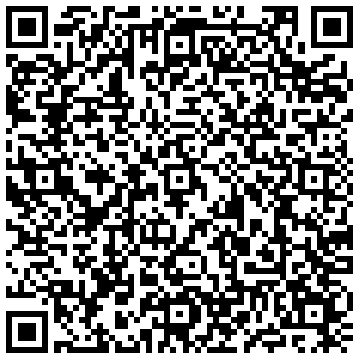
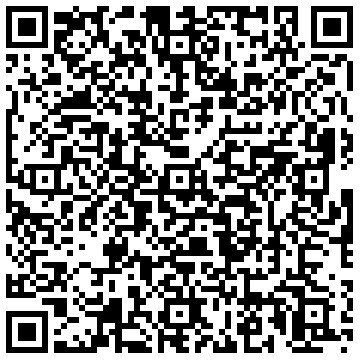
更新文件路径

diff --git a/apps/Pneumonia2020/README.md b/apps/Pneumonia2020/README.md
@@ -7,7 +7,7 @@
 
 ### 安装方式
 
-1. 点击链接安装：[jsbox://import?name=&url=Pneumonia2020https%3a%2f%2fcdn.jsdelivr.net%2fgh%2fzhuangzhihao%2fjsbox%40master%2ffiles%2fPneumonia2020.box&icon=https%3a%2f%2fcdn.jsdelivr.net%2fgh%2fzhuangzhihao%2fjsbox%40master%2fapps%2fPneumonia2020%2fassets%2ficon.png](jsbox://import?name=&url=Pneumonia2020https%3a%2f%2fcdn.jsdelivr.net%2fgh%2fzhuangzhihao%2fjsbox%40master%2ffiles%2fPneumonia2020.box&icon=https%3a%2f%2fcdn.jsdelivr.net%2fgh%2fzhuangzhihao%2fjsbox%40master%2fapps%2fPneumonia2020%2fassets%2ficon.png)
+1. 点击链接安装：[jsbox://import?url=https%3a%2f%2fcdn.jsdelivr.net%2fgh%2fzhuangzhihao%2fjsbox%40master%2fdownload%2fPneumonia2020.box](jsbox://import?name=Pneumonia2020&url=https%3a%2f%2fcdn.jsdelivr.net%2fgh%2fzhuangzhihao%2fjsbox%40master%2fdownload%2fPneumonia2020.box&icon=https%3a%2f%2fcdn.jsdelivr.net%2fgh%2fzhuangzhihao%2fjsbox%40master%2fapps%2fPneumonia2020%2fassets%2ficon.png)
 
 2. 使用iOS自带相机扫描二维码安装
 
